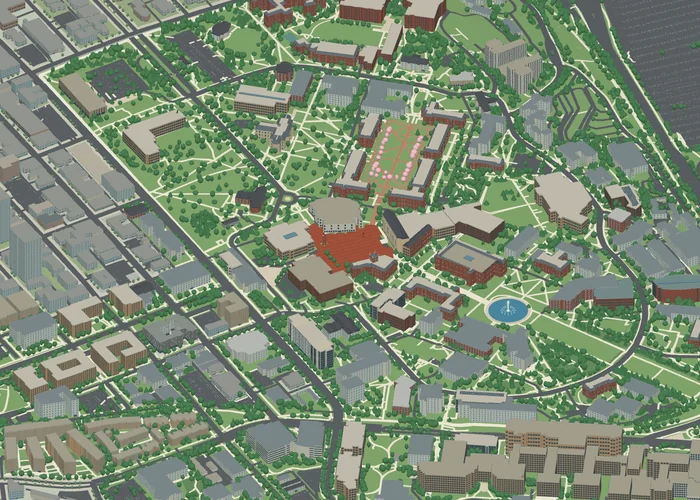
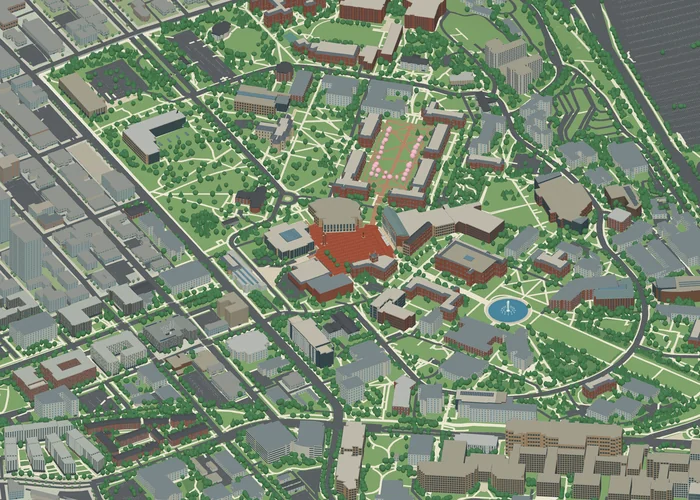
Release 26.10.16.1

diff --git a/index.html b/index.html
@@ -1,7 +1,7 @@
 <!doctype html>
 <html lang="en"><head><meta charset="utf-8"><meta name="viewport" content="width=device-width,initial-scale=1"><meta name="color-scheme" content="light"><meta name="theme-color" content="#f7f8f8">
 <title>Campus 3D Models | Explore Four University Campuses</title><meta name="description" content="Explore UChicago, UMich, UW and UC Santa Barbara through interactive 3D campus models. Discover architecture, landscapes, and layered Rhino and 3DS downloads."><meta name="robots" content="index,follow,max-image-preview:large"><link rel="canonical" href="https://arch.songming.org/">
-<meta property="og:type" content="website"><meta property="og:site_name" content="Campus 3D Models"><meta property="og:title" content="Campus 3D Models"><meta property="og:description" content="Four campuses. A different perspective. Explore UChicago, UMich, UW and UC Santa Barbara in 3D."><meta property="og:url" content="https://arch.songming.org/"><meta property="og:locale" content="en_US"><meta property="og:locale:alternate" content="zh_CN"><meta property="og:image" content="https://arch.songming.org/assets/images/social-preview.png"><meta property="og:image:width" content="1200"><meta property="og:image:height" content="630"><meta property="og:image:alt" content="Four architectural campus model previews from the Campus 3D Models collection."><meta name="twitter:card" content="summary_large_image"><meta name="twitter:title" content="Campus 3D Models"><meta name="twitter:description" content="Four campuses. A different perspective."><meta name="twitter:image" content="https://arch.songming.org/assets/images/social-preview.png">
+<meta property="og:type" content="website"><meta property="og:site_name" content="Campus 3D Models"><meta property="og:title" content="Campus 3D Models"><meta property="og:description" content="Four campuses. A different perspective. Explore UChicago, UMich, UW and UC Santa Barbara in 3D."><meta property="og:url" content="https://arch.songming.org/"><meta property="og:locale" content="en_US"><meta property="og:locale:alternate" content="zh_CN"><meta property="og:image" content="https://arch.songming.org/assets/images/social-preview.png?v=26.10.16.1"><meta property="og:image:width" content="1200"><meta property="og:image:height" content="630"><meta property="og:image:alt" content="Four architectural campus model previews from the Campus 3D Models collection."><meta name="twitter:card" content="summary_large_image"><meta name="twitter:title" content="Campus 3D Models"><meta name="twitter:description" content="Four campuses. A different perspective."><meta name="twitter:image" content="https://arch.songming.org/assets/images/social-preview.png?v=26.10.16.1">
 <link rel="icon" type="image/svg+xml" href="assets/brand/atlas.svg"><link rel="icon" type="image/png" sizes="32x32" href="assets/brand/icon-32.png"><link rel="apple-touch-icon" href="assets/brand/apple-touch-icon.png"><link rel="stylesheet" href="assets/site.css?v=26.10.15.7"><script defer src="assets/site.js"></script><script type="application/ld+json" id="schema">{"@context":"https://schema.org","@graph":[{"@type":"WebSite","@id":"https://arch.songming.org/#website","url":"https://arch.songming.org/","name":"Campus 3D Models","inLanguage":["en","zh-CN"]},{"@type":"CollectionPage","@id":"https://arch.songming.org/#collection","url":"https://arch.songming.org/","name":"Campus 3D Models","description":"Explore interactive 3D campus models of UChicago, UMich, UW and UC Santa Barbara.","isPartOf":{"@id":"https://arch.songming.org/#website"},"mainEntity":{"@type":"ItemList","numberOfItems":4,"itemListElement":[{"@type":"ListItem","position":1,"name":"University of Chicago","url":"https://uchi.arch.songming.org/"},{"@type":"ListItem","position":2,"name":"University of Michigan","url":"https://umich.arch.songming.org/"},{"@type":"ListItem","position":3,"name":"University of Washington","url":"https://uw.arch.songming.org/"},{"@type":"ListItem","position":4,"name":"UC Santa Barbara","url":"https://ucsb.arch.songming.org/"}]}}]}</script></head>
 <body id="top">
 <a href="#campuses" class="skip-link" data-i18n="skip">Skip to campus collection</a>
@@ -20,7 +20,7 @@
  <p class="project-features" data-i18n="umich.features">The Diag · North Campus · Medical & Athletic campuses</p><span class="project-link"><span data-i18n="open">View model</span><span class="model-arrow" aria-hidden="true"><svg viewBox="0 0 16 24" width="16" height="24" focusable="false"><path d="M3 18 13 7M5.5 7H13v7.5"/></svg></span></span>
 </a><a class="campus-card" href="https://uw.arch.songming.org/" target="_blank" rel="noopener" data-campus="uw" id="project-uw" aria-label="View University of Washington model (opens in a new tab)">
  <div class="project-line"><span class="project-number">03</span><span data-i18n="uw.location">Seattle, Washington</span><span class="project-mark" aria-hidden="true"><svg viewBox="0 0 24 24" aria-hidden="true"><path d="M5 19 19 5M5 5h14v14"/></svg></span></div>
- <div class="card-image"><img src="assets/images/uw-small.webp" srcset="assets/images/uw-small.webp 700w, assets/images/uw.webp 1400w" sizes="(max-width: 700px) 100vw, 50vw" width="1400" height="1000" alt="3D exterior model of the University of Washington campus" loading="lazy" decoding="async"></div>
+ <div class="card-image"><img src="assets/images/uw-small.webp?v=26.10.16.1" srcset="assets/images/uw-small.webp?v=26.10.16.1 700w, assets/images/uw.webp?v=26.10.16.1 1400w" sizes="(max-width: 700px) 100vw, 50vw" width="1400" height="1000" alt="3D exterior model of the University of Washington campus" loading="lazy" decoding="async"></div>
  <div class="project-caption"><h3 data-i18n="uw.name">University of Washington</h3><span data-i18n="uw.campus">Seattle campus</span></div>
  <p class="project-features" data-i18n="uw.features">Red Square · The Quad · Lakefront landscapes</p><span class="project-link"><span data-i18n="open">View model</span><span class="model-arrow" aria-hidden="true"><svg viewBox="0 0 16 24" width="16" height="24" focusable="false"><path d="M3 18 13 7M5.5 7H13v7.5"/></svg></span></span>
 </a><a class="campus-card" href="https://ucsb.arch.songming.org/" target="_blank" rel="noopener" data-campus="ucsb" id="project-ucsb" aria-label="View UC Santa Barbara model (opens in a new tab)">

diff --git a/docs/ASSET_SOURCES.md b/docs/ASSET_SOURCES.md
@@ -4,7 +4,7 @@ Campus previews are exported renders from the corresponding local campus project
 
[5 lines of base64/hex data omitted]
 
 The website uses system Helvetica/Arial and Chinese system fonts. Manrope is retained for raster share-image generation under the SIL Open Font License. Legacy font assets keep their accompanying licenses. The monochrome atlas mark is an original SVG made for this project.

diff --git a/CHANGELOG.md b/CHANGELOG.md
@@ -1,5 +1,10 @@
 # Changelog
 
+## 26.10.16.1 — 2026-10-16
+
+- Refresh the UW collection thumbnails and its share-image tile using the current refined model, including the updated Suzzallo entrance and campus highlights.
+- Retain the original UW camera direction, elevation, target, zoom, centered crop and image dimensions; add capture provenance and image cache versioning.
+
 ## 26.10.15.7 — 2026-10-15
 
 - Draw View model arrows with the same SVG on every device, removing system-font and emoji differences. Preserve the measured original 16 × 24 px arrow box, 25 px text gap and centered alignment.
